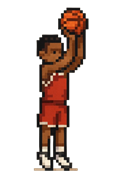
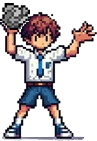
Jogo funcionando com novos sprites, e alterado tamanho de alguns sprites para facilitar o jogo

diff --git a/code/level.py b/code/level.py
@@ -39,9 +39,9 @@ class Level:
                     pygame.quit()
                     quit()
 
-            self.level_text(30, f'Pontuação: {player.points}            Tentativas: {player.shoots_left}', (255, 255, 255), (25, 25))
-            self.level_text(30, f'Power:', (255, 255, 255), (25, 80))
-            self.level_text(15, f'{("█" * max(0, int(player.power * 10) - 10))}', (237, 28, 36), (130, 90))
+            self.level_text(30, f'Pontuação: {player.points}        Tentativas: {player.shoots_left}', (255, 255, 255), (140, 25))
+            self.level_text(30, f'Power:', (255, 255, 255), (140, 80))
+            self.level_text(10, f'{("█" * max(0, int(player.power * 10) - 10))}', (237, 28, 36), (240, 93))
 
             pygame.display.flip()
             EntityMediator.verify_collision(self.entity_list)

diff --git a/code/player.py b/code/player.py
@@ -21,14 +21,14 @@ class Player(Entity, ABC):
             pressed = pygame.key.get_pressed()
             if pressed[pygame.K_x]:
                 if self.power < 7:
-                    self.power += 0.1
+                    self.power += 0.15
             elif self.power > 1:
                 power_stored = min(7, self.power)
                 self.power = 1
                 self.shoots_left -= 1
                 self.is_shooting = True
                 self.surf = pygame.image.load('./assets/' + 'dude_without_ball' + '.png').convert_alpha()
-                return Ball('ball', (self.rect.centerx, self.rect.top), power_stored)
+                return Ball('ball', (self.rect.left, self.rect.top), power_stored)
 
 
     def move(self):

diff --git a/code/entity_factory.py b/code/entity_factory.py
@@ -10,8 +10,8 @@ class EntityFactory:
     def get_entity(entity_name: str, position=(0,0)):
         match entity_name:
             case 'classroom_background':
-                return [Background('classroom_background', (0, 0))]
+                return [Background('classroom_background_2', (0, 0))]
             case 'dude':
-                return Player('dude', (25, 570))
+                return Player('dude', (40, 630))
             case 'trash_bin':
                 return TrashBin('trash_bin', (400, 650))
